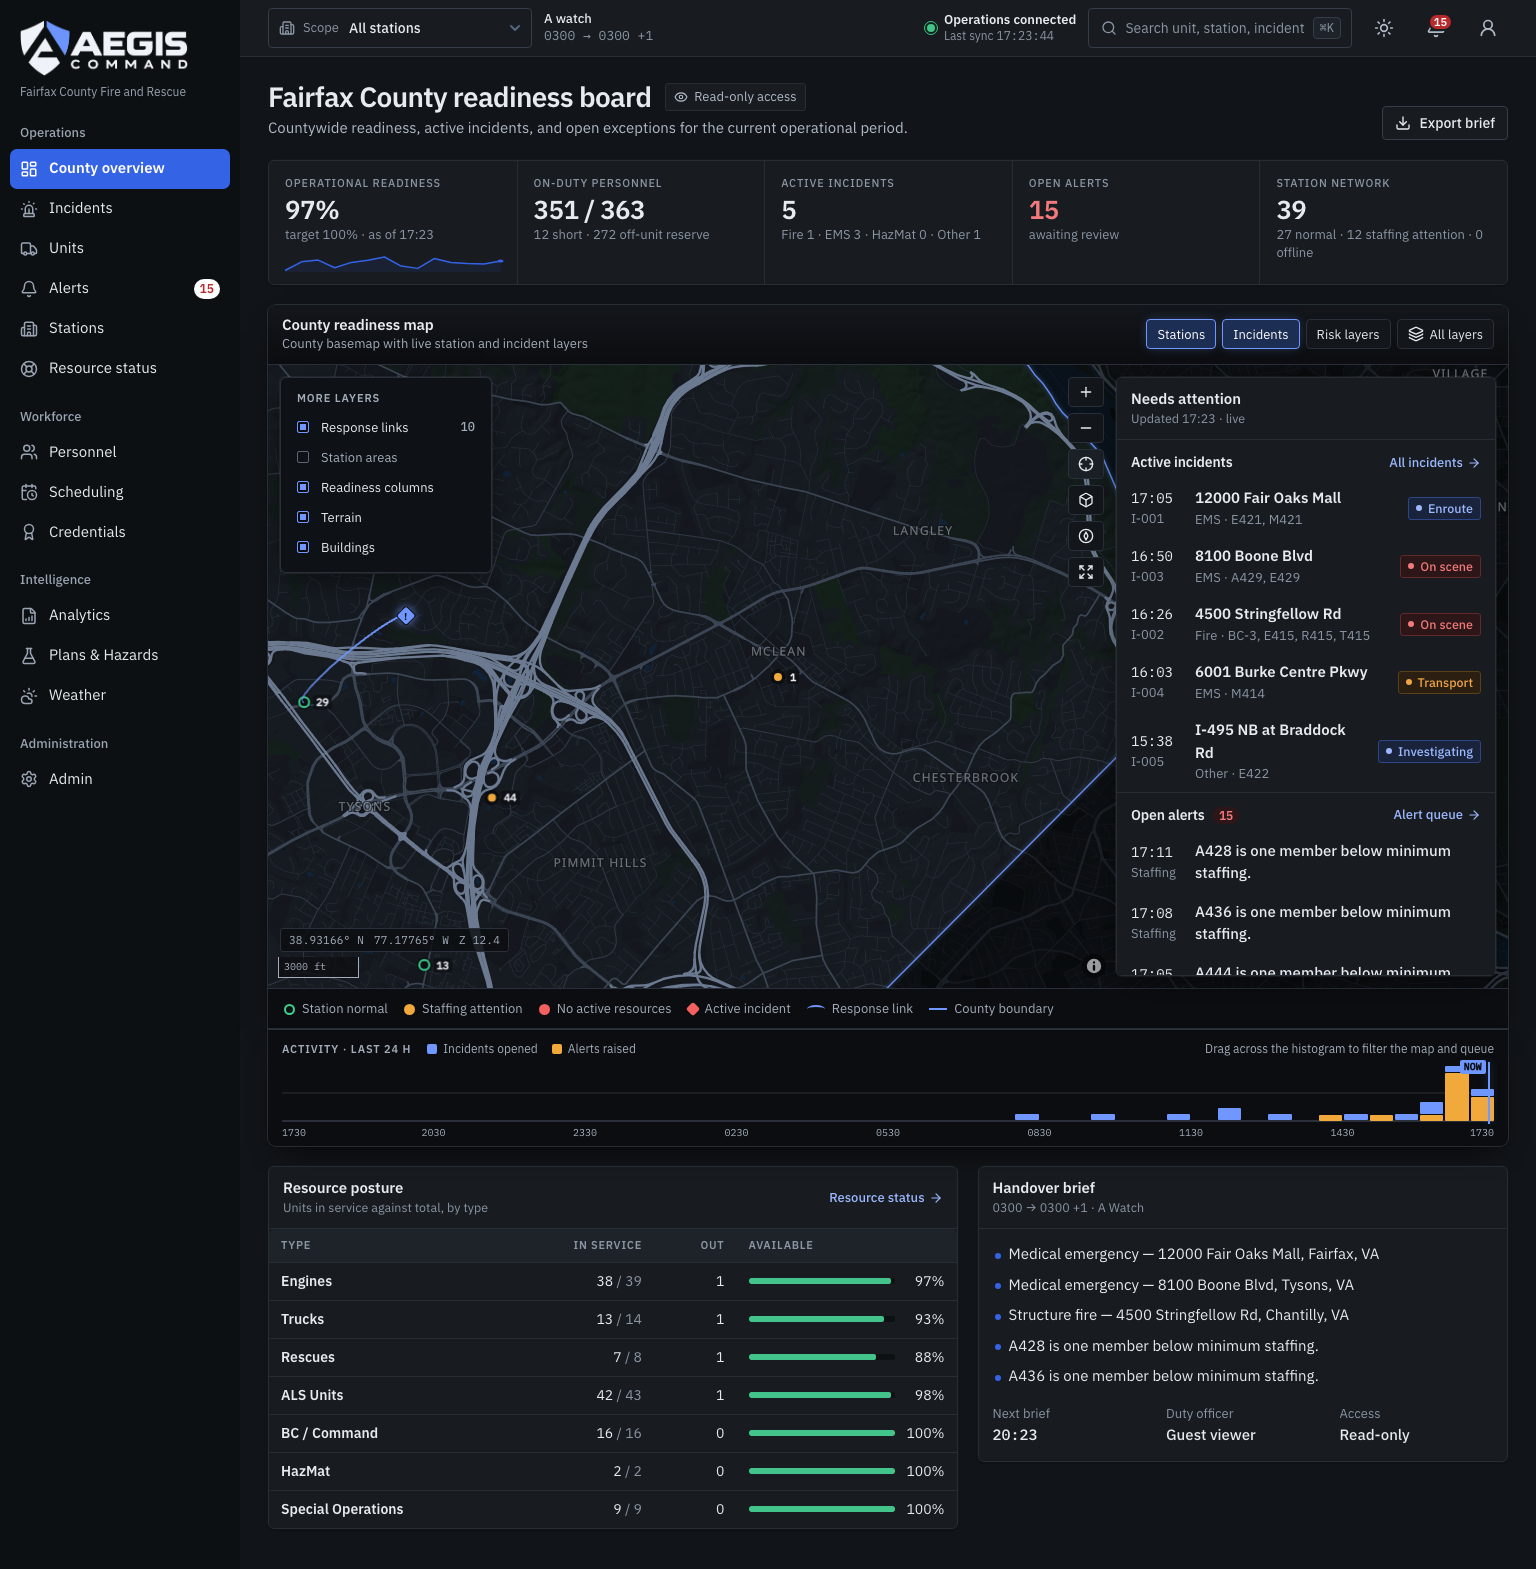
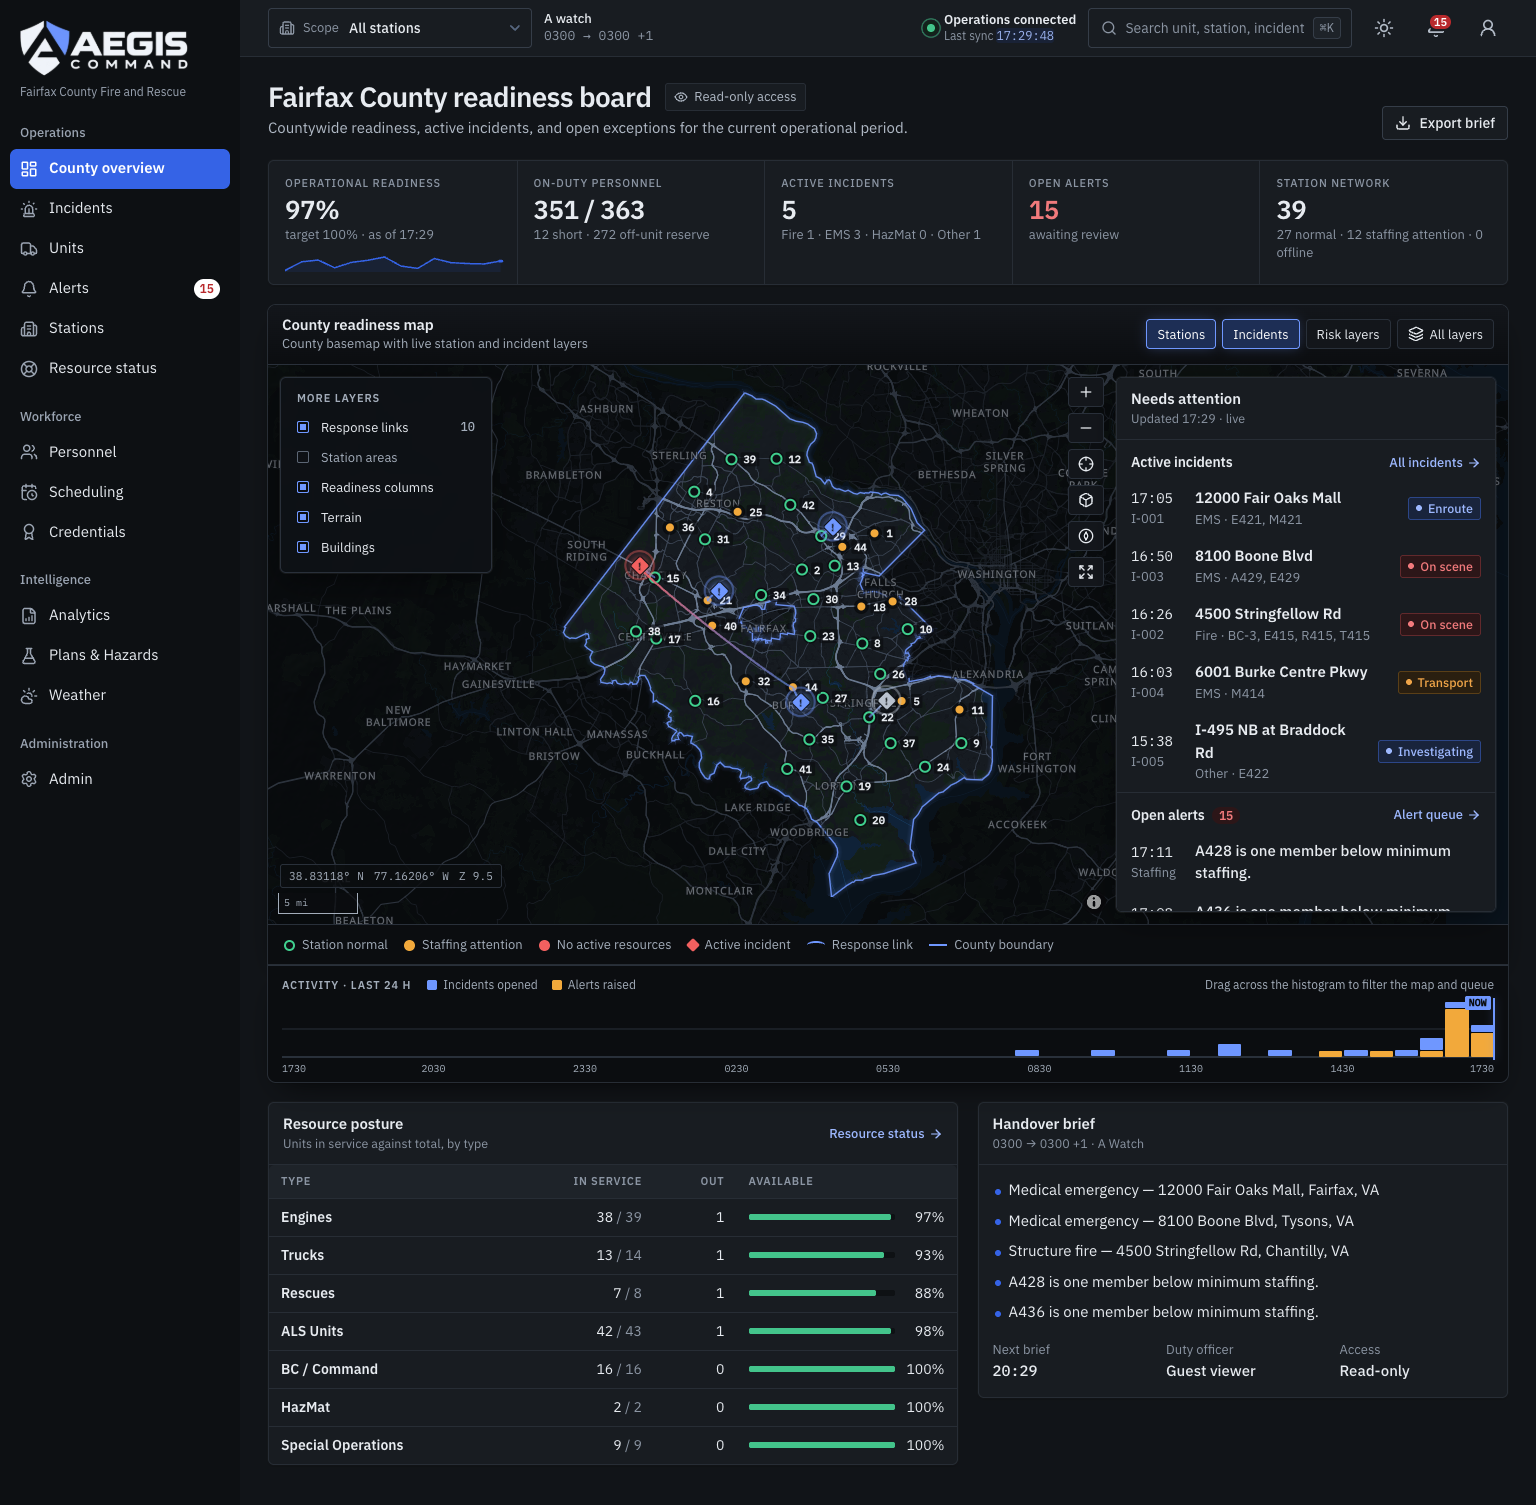
Add hero images, social card, and inspector fix

diff --git a/dashboard/components/GeoMap.tsx b/dashboard/components/GeoMap.tsx
@@ -315,7 +315,7 @@ export default function GeoMap({ title, stations, units, incidents, scope, mode 
       // Sized for the county view; shrink as the camera closes in so a column never fills the screen.
       const scale = Math.min(1, 2 ** (11 - zoom))
       result.push(new ColumnLayer({
-        id: 'readiness-columns', data: placed.filter((row) => row.assigned.length), getPosition: (row) => coordsOf(row)!, diskResolution: 6, radius: 380 * scale, elevationScale: scale, extruded: true, pickable: true,
+        id: 'readiness-columns', data: placed.filter((row) => row.assigned.length), getPosition: (row) => coordsOf(row)!, diskResolution: 6, radius: 620 * scale, elevationScale: scale, extruded: true, pickable: true,
         getElevation: (row) => row.assigned.length * 650, getFillColor: (row) => row.station_id === selectedStationId ? [cobalt[0], cobalt[1], cobalt[2], 235] : conditionColor(row, 205),
         material: { ambient: 0.55, diffuse: 0.6, shininess: 24 }, transitions: { getElevation: 600 },
         updateTriggers: { getFillColor: [selectedStationId] },

diff --git a/dashboard/app/styles/ui.css b/dashboard/app/styles/ui.css
@@ -220,7 +220,7 @@ textarea.ui-input { min-height: 96px; padding: 10px 12px; line-height: 1.45; res
 .ui-inspector-header p.ui-inspector-kind { margin-top: 3px; color: var(--ink-2); }
 .ui-inspector-object { margin-bottom: 6px; }
 /* Facts inside an inspector read as a property sheet: bordered label/value cells. */
-.ui-inspector .ui-facts:not(.ui-facts-rows) { gap: 0; border: 1px solid var(--rule); border-radius: var(--radius-control); overflow: hidden; }
+.ui-inspector .ui-facts:not(.ui-facts-rows) { gap: 0; border: 1px solid var(--rule); border-radius: var(--radius-control); }
 .ui-inspector .ui-facts:not(.ui-facts-rows) > div { padding: 8px 10px; border-right: 1px solid var(--rule); border-bottom: 1px solid var(--rule); margin: 0 -1px -1px 0; }
 .ui-inspector .ui-facts dt { font-size: 0.6875rem; font-weight: 600; letter-spacing: 0.07em; text-transform: uppercase; }
 .ui-inspector .ui-facts dd { font-size: 0.875rem; }

diff --git a/README.md b/README.md
@@ -38,7 +38,9 @@ The tour above is a recording of the running application against the seeded synt
 | Weather | `/weather` | National Weather Service forecast and active alerts, with stale and unavailable states. |
 | Admin | `/admin` | Organization, roles and permissions, system status, audit log, and baseline data restore. |
 
-More screenshots: [Incidents](pictures/aegis-incidents-desktop.png) · [Units](pictures/aegis-units-desktop.png) · [Alerts](pictures/aegis-alerts-desktop.png) · [Stations](pictures/aegis-stations-desktop.png) · [Personnel](pictures/aegis-personnel-desktop.png) · [Scheduling](pictures/aegis-shifts-desktop.png) · [Credentials](pictures/aegis-certifications-management-desktop.png) · [Analytics](pictures/aegis-analytics-desktop.png) · [Plans](pictures/aegis-plans-desktop.png) · [Weather](pictures/aegis-weather-desktop.png) · [Admin](pictures/aegis-admin-desktop.png). Each has a `-mobile.png` counterpart in [pictures/](pictures/). The browser test suite regenerates them.
+![3D view: tilted county map with readiness columns, 3D buildings, and the station inspector](pictures/aegis-3d-desktop.png)
+
+More screenshots: [3D view](pictures/aegis-3d-desktop.png) · [Relationship graph](pictures/aegis-graph-desktop.png) · [Light theme](pictures/aegis-command-light.png) · [Incidents](pictures/aegis-incidents-desktop.png) · [Units](pictures/aegis-units-desktop.png) · [Alerts](pictures/aegis-alerts-desktop.png) · [Stations](pictures/aegis-stations-desktop.png) · [Personnel](pictures/aegis-personnel-desktop.png) · [Scheduling](pictures/aegis-shifts-desktop.png) · [Credentials](pictures/aegis-certifications-management-desktop.png) · [Analytics](pictures/aegis-analytics-desktop.png) · [Plans](pictures/aegis-plans-desktop.png) · [Weather](pictures/aegis-weather-desktop.png) · [Admin](pictures/aegis-admin-desktop.png). Each has a `-mobile.png` counterpart in [pictures/](pictures/). The browser test suite regenerates them.
 
 ## Run it
 
